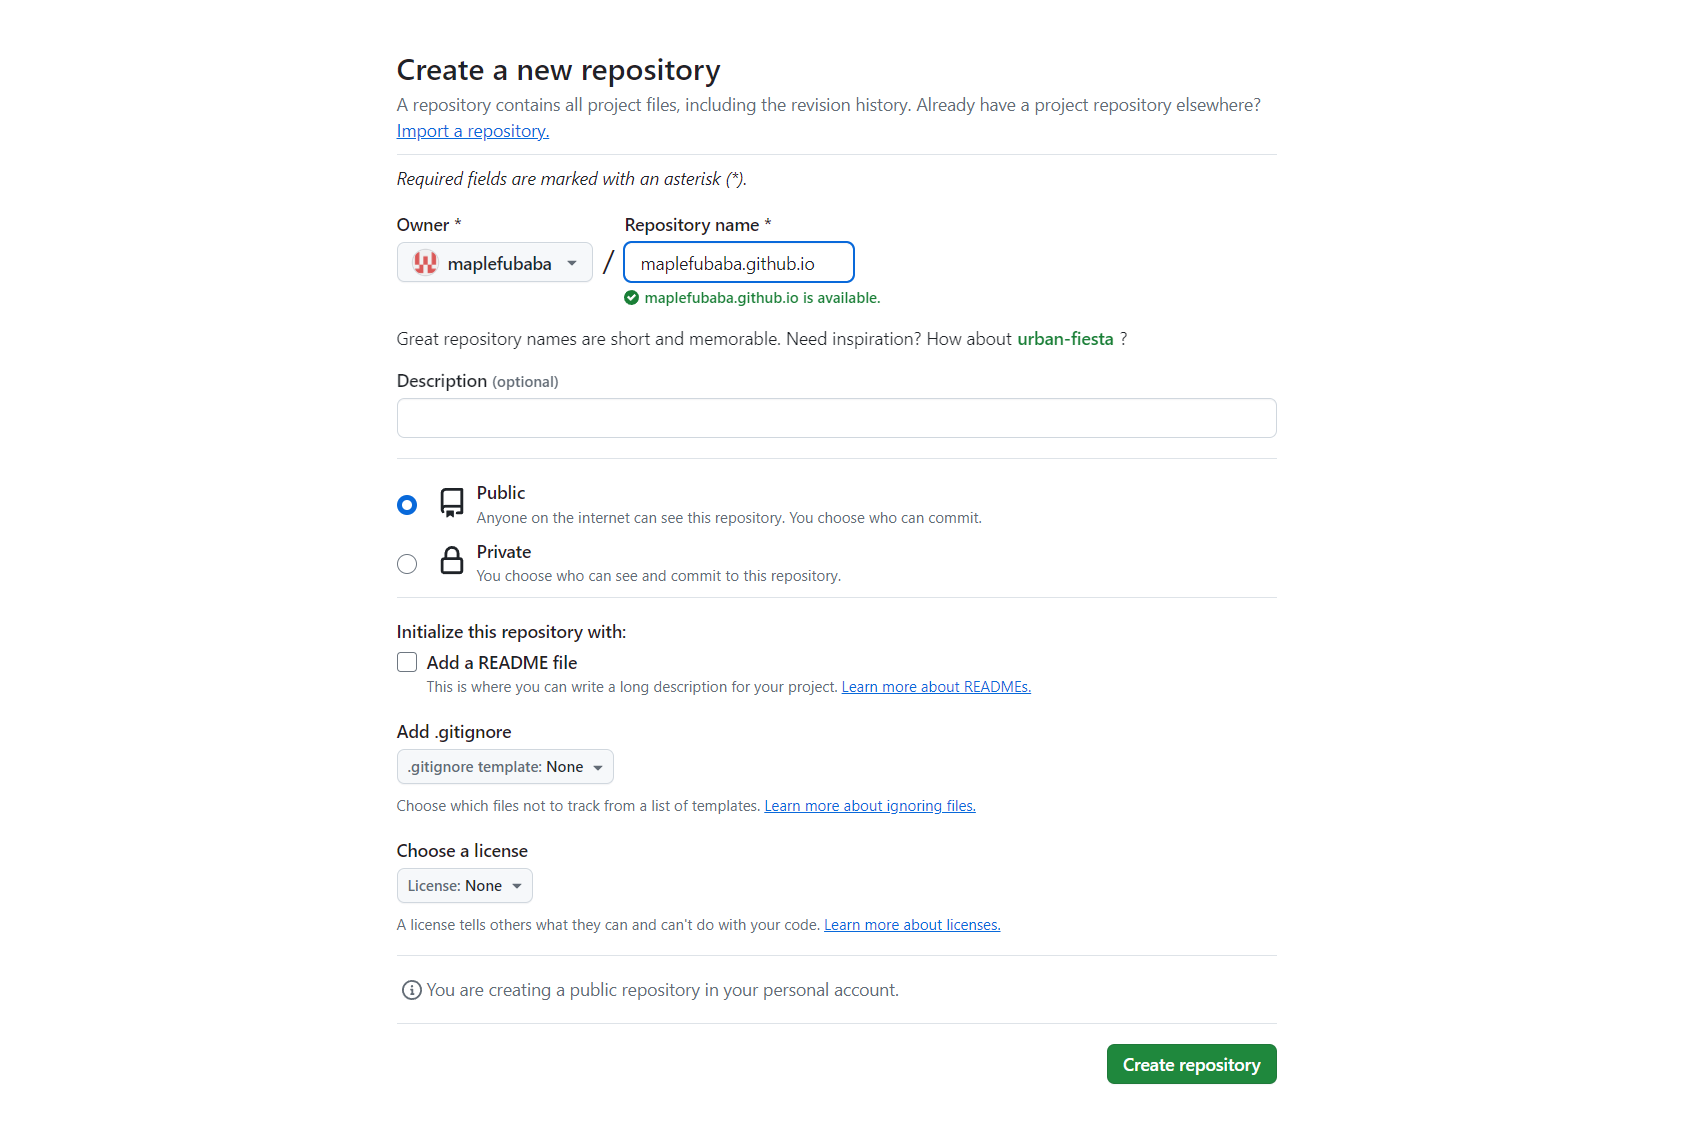
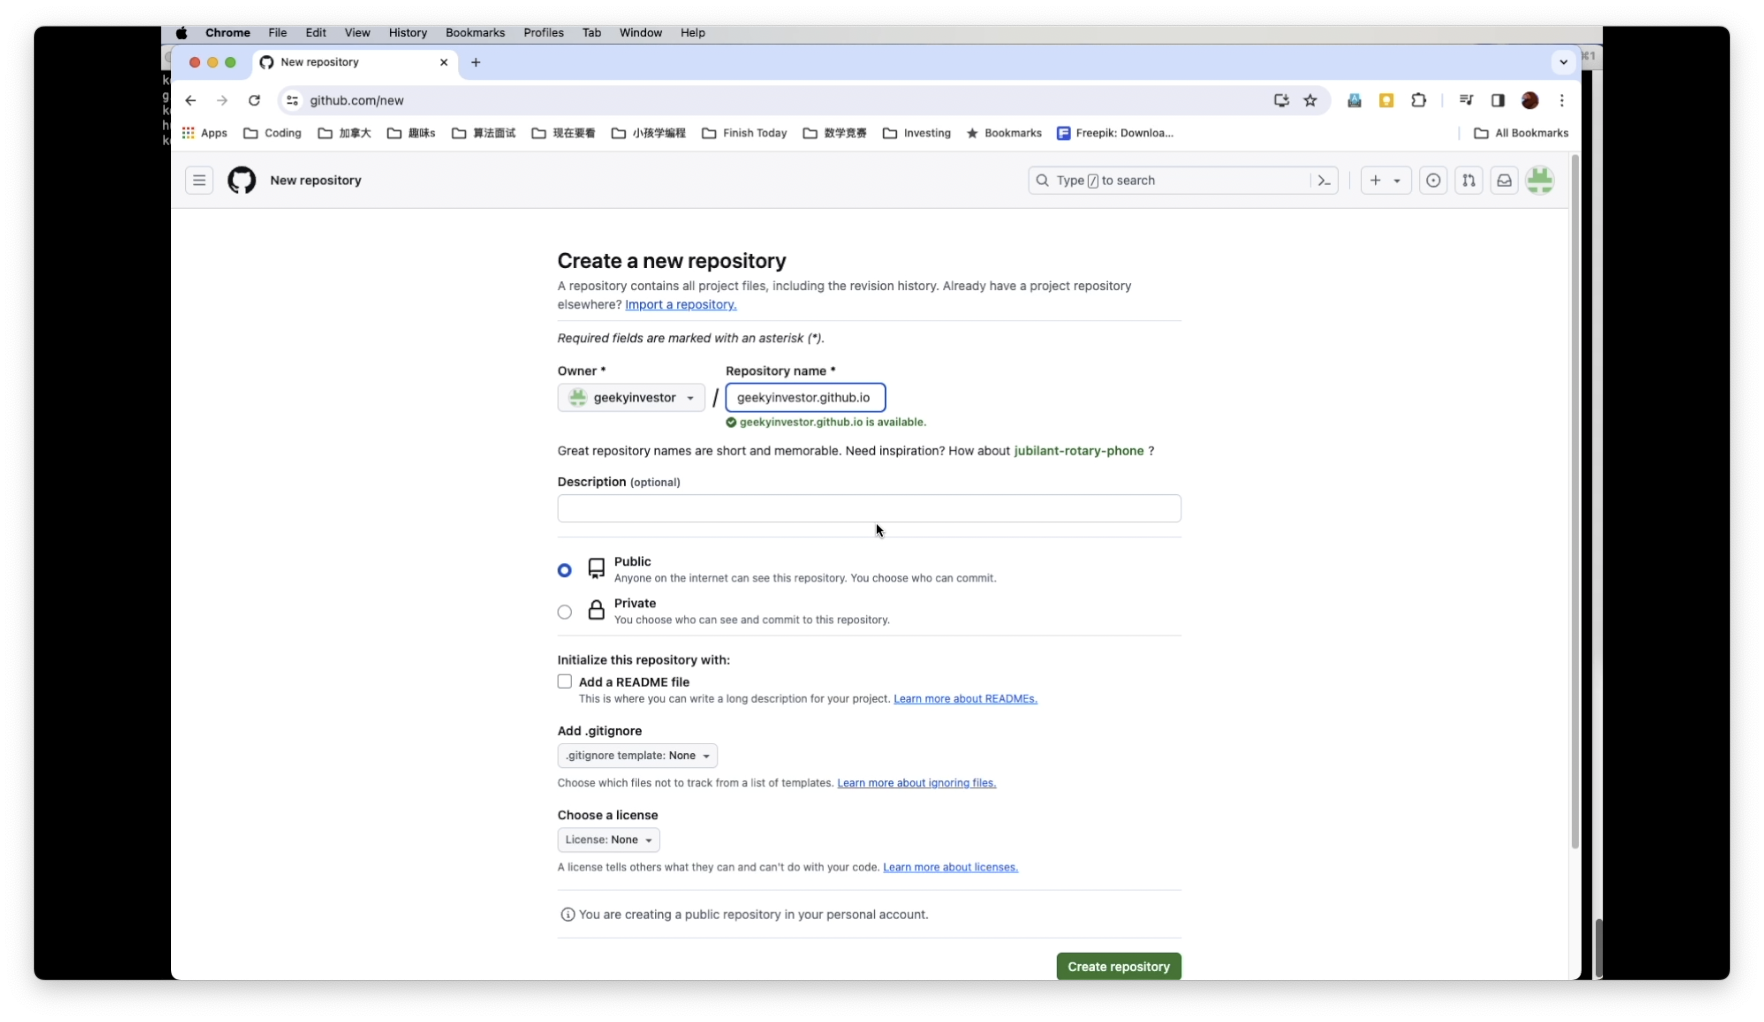
Githubblog (#1)
* first draft

* github blog contents first draft

* save progress

* modified first half

Changed region(s): [[0.0, 0.0, 0.9893, 0.9706], [0.2473, 0.546, 0.6183, 0.91], [0.742, 0.1517, 0.7729, 0.182]]

diff --git a/content/blog/2024/20240414 Create a blog on github in 10 mins/index.zh-cn.md b/content/blog/2024/20240414 Create a blog on github in 10 mins/index.zh-cn.md
@@ -1,33 +1,47 @@
 ---
-title: "10分钟在github上创建一个博客"
+title: "10分钟在github上创建一个免费博客"
 date: 2024-04-14
 description: "这是怎么回事"
-summary: "测试"
-tags: ["git"]
+summary: "如何在github上快速创建一个博客？"
+tags: ["git", "hugo", "congo"]
 ---
 
-## 准备
+## 准备工作
 
-说是10分钟，但是还是需要一点基础的。
+创建免费博客或者DIY个人网站，没有一点html甚至markdown基础的技术小白还是推荐用wordpress，毕竟点几下鼠标就可以了，10分钟差不多就能搞定。github pages是基于静态页面，后台是用jekyll或者hugo这样的命令行工具把markdown格式的文件转换成html的网页。先在本地编辑测试好博客markdown文件，用程序员的版本控制神器git把文件上传到github上，github上自动运行hugo生成github pages需要的html文件。
 
-- 需要在github上有一个账号，这个博客用的是github的静态页面服务，创建账号是很容易的，大概5分钟。
-- 需要对git有一个基本的了解，应该对所有的程序员都不是问题，如果要不是程序员就需要花点时间学习一下了，估计要几个小时了解一下概念和实践一下。
-- 下载安装[hugo](https://gohugo.io)。hugo是一个可以动态生成和管理网页的工具，它是用google出品的golang编写的，所以速度比类似工具jekyll快一个数量级。点[这里](https://github.com/gohugoio/hugo/releases/latest)下载最新的执行文件hugo_extended_xxxxxxxx_windows-amd64.zip。解压这个文件在windows下就得到hugo.exe。
+wordpress可以在后台更换主题theme，除了后台提供的免费主题，还有一些收费的主题。github pages上用的jekyll或者hugo也是有主题可以选择的，比如hugo的免费主题全集在[这里](https://themes.gohugo.io/)可以看到，高手还可以自己定制主题。
 
-hugo是一个命令行的工具，你可以把它下载以后在本地建立一个blog的目录，然后把hugo可执行文件hugo.exe拷到这个目录下运行就可以了。
+选择用github pages的应该还是适合程序员或者比较techsavvy的人，有种整个博客代码层面自己能完全掌控的感觉。生成的网页在github载入速度也快，而且github提供的空间1G满足一般人的需求够用了。
 
-OK，假设现在你已经具备一下条件。
-- 你在github上已经创建账户myblog，github上空间网址www.github.com/myblog。
-- 选好一个hugo的主题congo。选择这个主题的原因是congo很简洁，而且直接支持双语。
-- 
+说是10分钟可以创建一个博客，那是对懂技术的程序员说的，正式干活之前需要我们做一些准备工作。
+- 系统已经装载git，为了简单起见，可以装一个github桌面应用，这样几乎所有git的操作可以在界面下操作。
+- 系统已经装载hugo。windows下建议直接去[这里](https://github.com/gohugoio/hugo/releases/latest)下载可执行文件，mac下直接用brew装更方便。
+- 在github上要有一个账号，因为我们创建的博客用的是github的静态页面服务github pages。
+- 需要对git有一个基本的了解，应该对程序员都不是问题，如果不是程序员就需要花点时间学习一下了，估计要几个小时了解一下概念和实践一下。
+- 在hugo的主题模板里选好一个主题theme，很多人有选择困难症，需要很长时间选择一个喜欢的主题。
+
+OK，现在我们可以开始正式干活了。对了，请先打开一个控制台console，输一下git和hugo的命令，看能不能运行。如果不行，回到上一步确认git或者hugo有没有安装好。
+- 你在github上已经创建账户geekyinvestor，github上空间网址www.github.com/geekyinvestor。
+- 选好一个hugo的主题，我个人喜欢极简风，[congo]()挺对我的胃口。
 
 ## 创建博客
-你在E:\blog目录下。
+
+一般的流程是，你可以先在本地创建博客，用git来初始化，commit以后再把本地代码push到远程github服务器上。但是对于不太懂git流程的人，不妨先在github服务器上创建好代码库geekyinvestor.github.io。
+![Create new repo](create.new.repo.png)
+
+现在要把代码从服务器下载到本地，用github桌面应用比较简单。
+
+现在我们用hugo命令在克隆的目录里来创建网站，这里必须加上--force选项，否则hugo不让你在一个已存在的目录下创建。
 
 ```shell
-hugo new site myblog.github.io
-cd myblog.github.io
-git init
+hugo new site geekyinvestor.github.io --force
+cd geekyinvestor.github.io
+```
+
+下一步我们把主题congo当做一个子模块下载到网页目录下。
+
+```
 git submodule add https://github.com/jpanther/congo themes/congo
 
 ```
@@ -36,7 +50,20 @@ git submodule add https://github.com/jpanther/congo themes/congo
 theme='congo'
 ```
 
-### .gitignore文件
+到这一步可以用git status看看本地git代码仓库的状态。
+![git status](gitstatus1.png) 
+
+### 本地测试
+这个时候其实我们已经有一个空白的网站了，但是我们加一点现成的内容过来，作为我们博客开始的参考。进入到congo这个theme的目录下，把它exampleSite里面的全部内容拷贝到网站的根目录下。
+
+然后再在根目录下执行
+```
+hugo server
+```
+在浏览器里面打开https://localhost:1313 就可以看看我们博客的目前的效果了。
+
+### commit&push到github
+在做commit这个操作之前，需要熟悉一下.gitignore这个文件。它是git的一个配置文件，里面记录了我们不想让git存下来的文件名（也可以是文件名的匹配式）。具体的说明就不在这里展开了，可以自己去google一下。这里把我们用的.gitignore放在下面。
 ```
 ### Hugo ###
 # Generated files by hugo
@@ -54,22 +81,237 @@ hugo.linux
 /.hugo_build.lock
 
 ```
-到这一步可以用git status看看。
-![git status](vfuwNks2l0.png)
 
-### 本地测试
-执行
+本地commit相当于把内容在本地存好，push是把本地的内容存到远程的github服务器上。git命令行对应的命令有
 ```
-hugo server
+git add --all
+git commit -m "fist commit"
+git push
 ```
-在浏览器里面打开https://localhost:1313就可以访问了。
+但是更简单的方法是直接用github的桌面应用。
 
-### commit&push到github
-在github里创建代码库maplefubaba.github.io，这个名字的格式是固定的，以后也是可以直接访问的域名。
-![Create new repo](create.new.repo.png)
+### github上的设置
+恭喜你，现在博客已经创建好了！但是正如我们需要在本地运行hugo server才能看到博客一样，远程服务器github也需要运行hugo来把markdown文件转换成html文件。这就要用到github的actions了，简单的说actions就是服务器上提供的一个编译器的东西，它可以把原始代码转换成实际可以在终端运行或者看到效果的东东。
 
-### github上设定
+下面我们来看怎么设定github上的actions，相当于自动在github的服务器上运行hugo来生成网页并且把他们放到github pages里面。
 
+下面是在github里面设置actions：
+![Actions S1](actions.s1.png)
+搜索hugo
+![Actions S2](actions.s2.png)
+设置hugo的action
+![Actions S3](actions.s3.png)
+保存commit
+![Actions S4](actions.s4.png)
+![Actions S5](actions.s5.png)
+可以直接在github上看到在根目录下创建了.github/workflows/hugo.yml文件
+![Actions S6](actions.s6.png)
 
+## 开始
+
+从themes/congo/exampleSite里面把文件拷贝到博客的根目录下，现在可以把content目录下的内容都删掉。博客的文章内容都是在content目录下，然后在content新建一个blog目录。
+
+### 中英双语
+
+congo主题支持多种语言，比如我希望网站同时支持中文（zh-cn）和英文（en），下面我们需要修改一些设置。
+
+### 其他设置变更
+
+![Config file diff](config.files.diff.png)
+
+config.tmol
+```
+# -- Site Configuration --
+# Refer to the theme docs for more details about each of these parameters.
+# https://jpanther.github.io/congo/docs/getting-started/
+
+theme = "congo"
+defaultContentLanguage = "zh-cn"	<- change default website language
+hasCJKLanguage = true  				<- add this to fix wordcount and read time estimate
+
+enableRobotsTXT = true
+paginate = 15
+summaryLength = 0
+
+[outputs]
+  home = ["HTML", "RSS", "JSON"]
+```
+
+params.toml
+```
+...
+[homepage]
+  #layout = "custom" # valid options: page, profile, custom
+  layout = "profile" # valid options: page, profile, custom   <- I'd like to use profile
+  showRecent = true
+  recentLimit = 5
+...
+
+[article]
+...
+  showWordCount = true										  <- show word count 
+...
+```
+
+languages.zh-cn.toml
+```
+languageCode = "zh-cn"
+languageName = "简体中文"
+languageDirection = "ltr"
+weight = 1
+
+title = "枫叶老付"
+copyright = "&copy; 2024 枫叶老付"
+
+[params]
+  dateFormat = "2006年1月2日"
+
+  mainSections = ["blog"]
+  description = "博客"
+
+[params.author]
+  name = "老付"
+  image = "img/author.jpg"
+  headline = "欢迎来我的博客！"
+  bio = "程序员/工程师/投资者/梦想家"
+  links = [
+    { youtube = "https://www.youtube.com/channel/UCBogzranpJg2nn42gUFFeIg" },
+  ]
+```
+
+languages.en.toml
+```
+languageCode = "en"
+languageName = "English"
+languageDirection = "ltr"
+weight = 2
+
+title = "Maplefubaba"
+copyright = "&copy; 2024 Kevin Fu"
+
+[params]
+  dateFormat = "2 January 2006"
+
+  mainSections = ["blog"]
+  description = "Blog"
+
+[params.author]
+  name = "Kevin Fu"
+  image = "img/author.jpg"
+  headline = "Welcome to my blog!"
+  bio = "Sofware developer/Engineer/Investor/Dreamer"
+  links = [
+    { youtube = "https://www.youtube.com/channel/UCBogzranpJg2nn42gUFFeIg" },
+  ]
+```
+
+menus.zh-cn.toml
+```
+# -- Main Menu --
+# The main menu is displayed in the header at the top of the page.
+# Acceptable parameters are name, pageRef, page, url, title, weight.
+#
+# The simplest menu configuration is to provide:
+#   name = The name to be displayed for this menu link
+#   pageRef = The identifier of the page or section to link to
+#
+# By default the menu is ordered alphabetically. This can be
+# overridden by providing a weight value. The menu will then be
+# ordered by weight from lowest to highest.
+
+[[main]]
+  name = "博客"
+  pageRef = "blog"
+  weight = 20
+
+[[main]]
+  name = "介绍"
+  pageRef = "users"
+  weight = 30
+  [main.params]
+    icon = "human3"
+    showname = false
+
+[[main]]
+  name = "标签"
+  pageRef = "tags"
+  weight = 40
+  [main.params]
+    icon = "tag"
+
+[[main]]
+  identifier = "搜索"
+  weight = 99
+  [main.params]
+    action = "search"
+
+[[main]]
+  identifier = "语言"
+  weight = 100
+  [main.params]
+    action = "locale"
+
+# -- Footer Menu --
+# The footer menu is displayed at the bottom of the page, just before
+# the copyright notice. Configure as per the main menu above.
+```
+
+menus.en.toml
+```
+# -- Main Menu --
+# The main menu is displayed in the header at the top of the page.
+# Acceptable parameters are name, pageRef, page, url, title, weight.
+#
+# The simplest menu configuration is to provide:
+#   name = The name to be displayed for this menu link
+#   pageRef = The identifier of the page or section to link to
+#
+# By default the menu is ordered alphabetically. This can be
+# overridden by providing a weight value. The menu will then be
+# ordered by weight from lowest to highest.
+
+[[main]]
+  name = "Blog"
+  pageRef = "blog"
+  weight = 20
+
+[[main]]
+  name = "About Me"
+  pageRef = "users"
+  weight = 30
+  [main.params]
+    icon = "human3"
+    showname = false
+
+[[main]]
+  name = "Tags"
+  pageRef = "tags"
+  weight = 40
+  [main.params]
+    icon = "tag"
+
+[[main]]
+  identifier = "search"
+  weight = 99
+  [main.params]
+    action = "search"
+
+[[main]]
+  identifier = "locale"
+  weight = 100
+  [main.params]
+    action = "locale"
+
+# -- Footer Menu --
+# The footer menu is displayed at the bottom of the page, just before
+# the copyright notice. Configure as per the main menu above.
+```
+### 创建第一篇博客文章
+
+在blog下建立2024目录，然后再建”20240414 Create a blog on github in 10 mins“目录，这篇文章所有的文件都会存在这个目录下面。
+
+新建index.zh-cn.md文件来写中文版本的文章，index.en.md文件是给英文版本的文章。
+
+写好文章以后，可以在本地运行命令hugo server来显示效果。
 
 [References]
